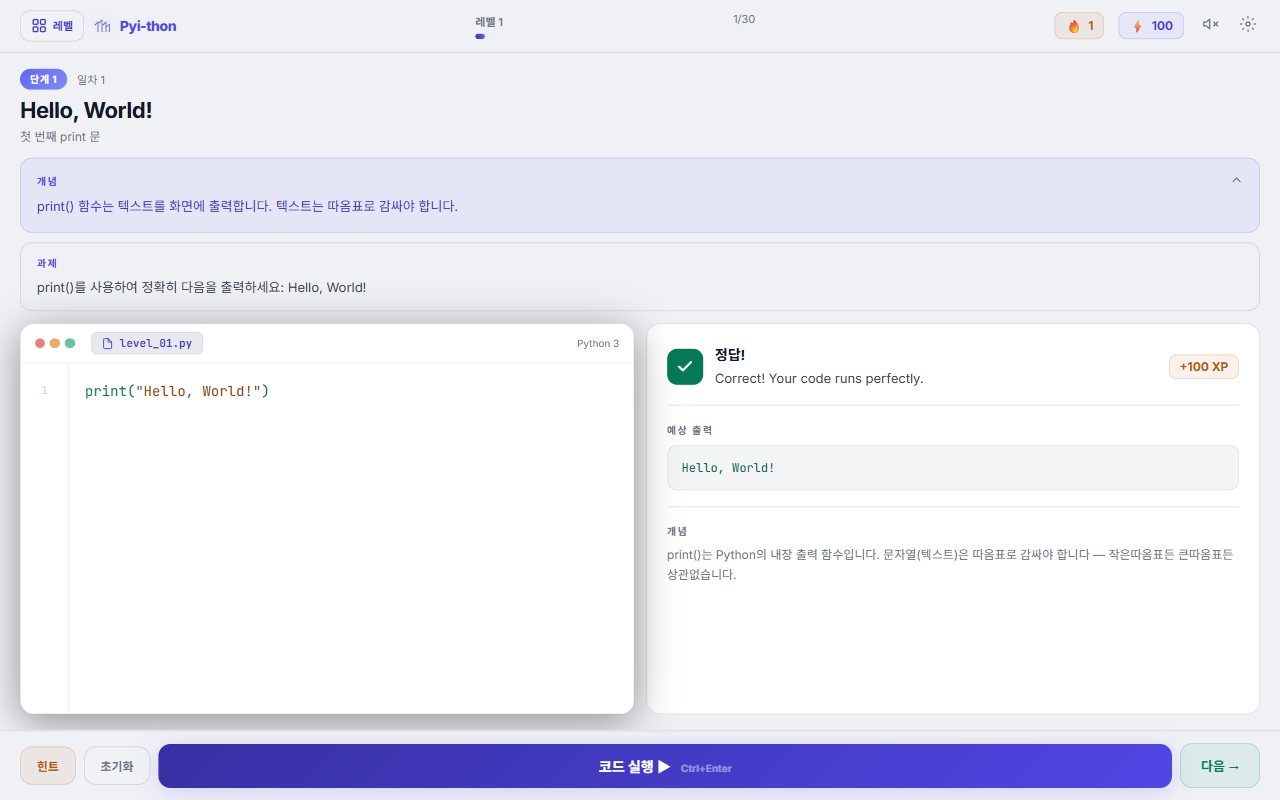
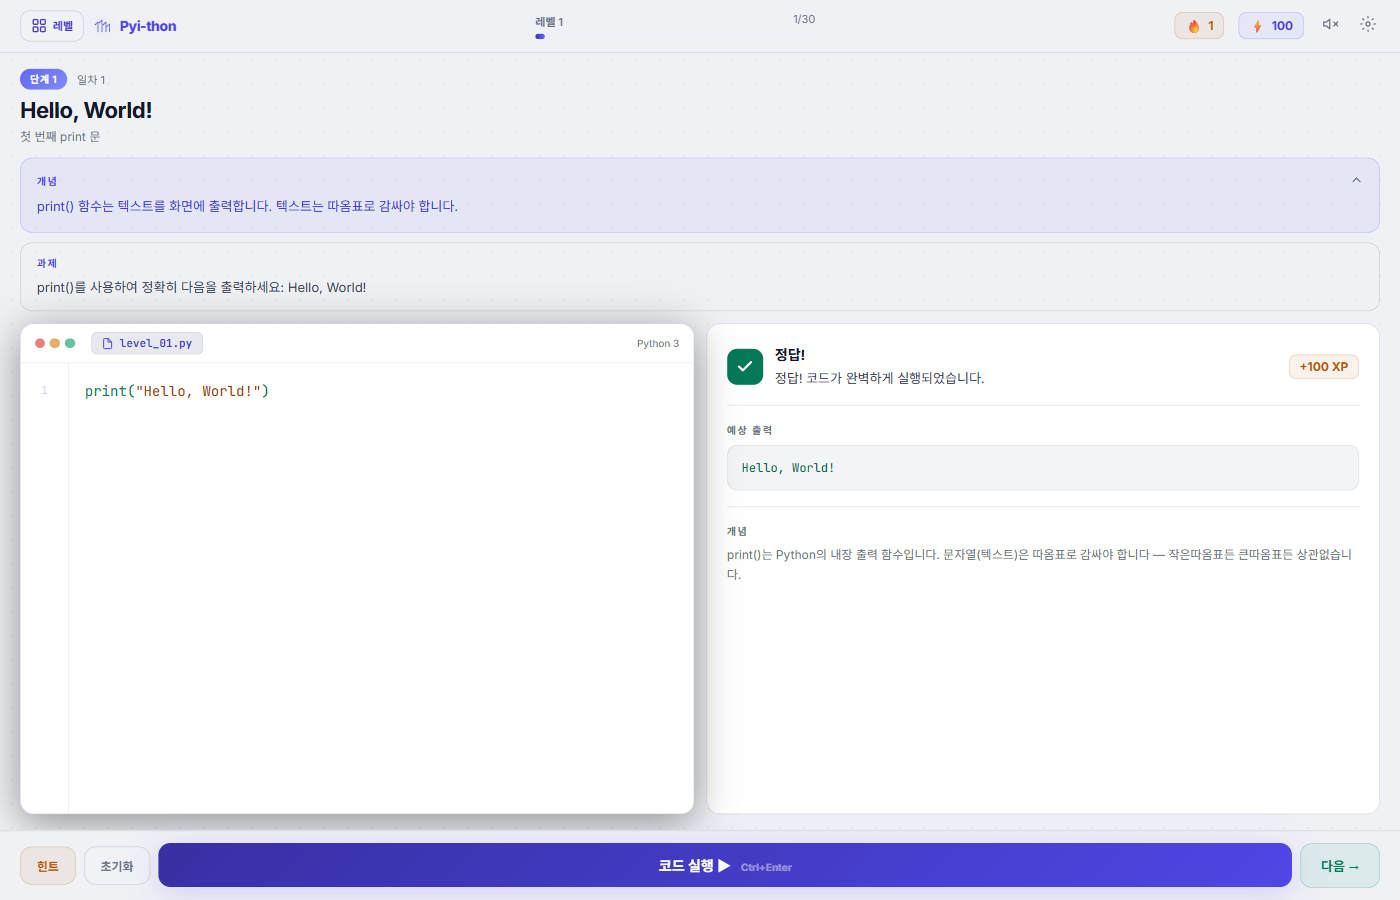
fix: update intro text, auto-fallback to offline mode, rename to pyi-thon
- Replace misleading "No AI" tagline with "AI-powered feedback. Real coding."
- Change "Local Edition" subtitle to "Open Source" (EN + KO)
- Auto-fallback to offline evaluator when no API key (instead of blocking)
- Show toast notification when falling back to offline mode
- Rename repo references from pyithon to pyi-thon in README and package.json
- Remove duplicate hero image from README top
- Update project structure line count to ~1600
- Comment out VITE_ANTHROPIC_API_KEY in .env.example for consistency
- Update Korean screenshot with correct Korean feedback text
- Change attribution from Eddie Yi to Edward Yi

diff --git a/src/App.jsx b/src/App.jsx
@@ -77,8 +77,8 @@ const STRINGS = {
     providerDesc: "Select AI evaluator",
     startLearning: "Start Learning",
     configureApiKey: "Configure API Key",
-    tagline: "Master Python from scratch.\nNo AI. No autocomplete. Just you.",
-    subtitle: "30 levels \u00b7 3 phases \u00b7 Local Edition",
+    tagline: "Master Python from scratch.\nAI-powered feedback. Real coding.",
+    subtitle: "30 levels \u00b7 3 phases \u00b7 Open Source",
     settings: "Settings",
     darkMode: "Dark",
     lightMode: "Light",
@@ -103,6 +103,7 @@ const STRINGS = {
     offlinePyError: "Python error: ",
     offlineWrongOutput: 'Your code outputs "{actual}" but the expected output is "{expected}".',
     offlineRunError: "Couldn't run your code. Try again.",
+    offlineFallback: "Running offline — add an API key in Settings for AI feedback",
   },
   ko: {
     levels: "\ub808\ubca8",
@@ -132,8 +133,8 @@ const STRINGS = {
     providerDesc: "AI \ud3c9\uac00\uae30 \uc120\ud0dd",
     startLearning: "\ud559\uc2b5 \uc2dc\uc791",
     configureApiKey: "API \ud0a4 \uc124\uc815",
-    tagline: "\ud30c\uc774\uc36c\uc744 \ucc98\uc74c\ubd80\ud130 \ub9c8\uc2a4\ud130\ud558\uc138\uc694.\nAI \uc5c6\uc774. \uc790\ub3d9\uc644\uc131 \uc5c6\uc774. \uc624\uc9c1 \ub2f9\uc2e0\uc758 \ud798\uc73c\ub85c.",
-    subtitle: "30 \ub808\ubca8 \u00b7 3 \ub2e8\uacc4 \u00b7 \ub85c\uceec \uc5d0\ub514\uc158",
+    tagline: "\ud30c\uc774\uc36c\uc744 \ucc98\uc74c\ubd80\ud130 \ub9c8\uc2a4\ud130\ud558\uc138\uc694.\nAI \ud53c\ub4dc\ubc31. \uc9c4\uc9dc \ucf54\ub529.",
+    subtitle: "30 \ub808\ubca8 \u00b7 3 \ub2e8\uacc4 \u00b7 \uc624\ud508 \uc18c\uc2a4",
     settings: "\uc124\uc815",
     darkMode: "\ub2e4\ud06c",
     lightMode: "\ub77c\uc774\ud2b8",
@@ -158,6 +159,7 @@ const STRINGS = {
     offlinePyError: "Python \uc624\ub958: ",
     offlineWrongOutput: '\ucd9c\ub825\uc774 "{actual}"\uc774\uc9c0\ub9cc \uc608\uc0c1 \ucd9c\ub825\uc740 "{expected}"\uc785\ub2c8\ub2e4.',
     offlineRunError: "\ucf54\ub4dc\ub97c \uc2e4\ud589\ud560 \uc218 \uc5c6\uc2b5\ub2c8\ub2e4. \ub2e4\uc2dc \uc2dc\ub3c4\ud558\uc138\uc694.",
+    offlineFallback: "\uc624\ud504\ub77c\uc778\uc73c\ub85c \uc2e4\ud589 \uc911 — \uc124\uc815\uc5d0\uc11c API \ud0a4\ub97c \ucd94\uac00\ud558\uba74 AI \ud53c\ub4dc\ubc31\uc744 \ubc1b\uc744 \uc218 \uc788\uc2b5\ub2c8\ub2e4",
   }
 };
 
@@ -676,6 +678,7 @@ export default function PyithonApp() {
   const [showXPFloat, setShowXPFloat] = useState(false);
   const [lang, setLang] = useState(() => localStorage.getItem("pyithon-lang") || "en");
   const [provider, setProvider] = useState(() => localStorage.getItem("pyithon-provider") || "claude");
+  const [offlineFallbackToast, setOfflineFallbackToast] = useState(false);
 
   const t = (key) => STRINGS[lang]?.[key] || STRINGS.en[key] || key;
 
@@ -775,7 +778,11 @@ export default function PyithonApp() {
 
   const handleSubmit = useCallback(async () => {
     if (isEvaluating) return;
-    if (!offlineMode && !apiKey) { setShowApiSetup(true); return; }
+    const useOffline = offlineMode || !apiKey;
+    if (!offlineMode && !apiKey) {
+      setOfflineFallbackToast(true);
+      setTimeout(() => setOfflineFallbackToast(false), 4000);
+    }
     const userCode = code.trim();
     if (!userCode || userCode === level.starterCode.trim()) {
       setFeedback({ correct: false, message: t("writeCodeFirst"), expected: level.expectedOutput });
@@ -786,7 +793,7 @@ export default function PyithonApp() {
     const expected = level.expectedOutput.trim();
     setIsEvaluating(true); setFeedback(null); setTab("output");
     try {
-      const result = offlineMode ? await evaluateOffline(userCode, level, lang) : await evaluateWithAI(userCode, level, apiKey, lang, provider);
+      const result = useOffline ? await evaluateOffline(userCode, level, lang) : await evaluateWithAI(userCode, level, apiKey, lang, provider);
       if (result.correct) {
         setFeedback({ correct: true, message: result.feedback || "Correct!", expected, aiExplanation: result.explanation });
         const isNew = !completedLevels.has(level.id);
@@ -1523,6 +1530,17 @@ export default function PyithonApp() {
           >{t("next")} &rarr;</button>
         )}
       </div>
+      {offlineFallbackToast && (
+        <div style={{
+          position: "fixed", bottom: 24, left: "50%", transform: "translateX(-50%)",
+          background: C.bgCard, border: `1px solid ${C.border}`, borderRadius: 12,
+          padding: "10px 20px", fontSize: 13, color: C.textDim, fontWeight: 500,
+          boxShadow: `0 8px 32px rgba(0,0,0,0.3)`, zIndex: 9999,
+          animation: "fadeSlideUp 0.3s ease-out", whiteSpace: "nowrap",
+        }}>
+          {t("offlineFallback")}
+        </div>
+      )}
       <style>{getGlobalStyles(C)}</style>
     </div>
   );

diff --git a/README.md b/README.md
@@ -1,7 +1,3 @@
-<p align="center">
-  <img src="screenshots/correct-dark.png" alt="Pyi-thon — Learn Python in Your Browser" width="800" />
-</p>
-
 <h1 align="center">Pyi-thon</h1>
 
 <p align="center">
@@ -88,8 +84,8 @@ Most Python tutorials make you read. Pyi-thon makes you **write**.
 ## Quick Start
 
 ```bash
-git clone https://github.com/aiedwardyi/pyithon.git
-cd pyithon
+git clone https://github.com/aiedwardyi/pyi-thon.git
+cd pyi-thon
 npm install
 npm run dev
 ```
@@ -136,14 +132,14 @@ You write Python  →  Submit  →  AI or Pyodide evaluates  →  Feedback + XP
 ## Project Structure
 
 ```
-pyithon/
+pyi-thon/
 ├── index.html          # Entry point + font imports
 ├── package.json        # Dependencies (React + Vite only)
 ├── vite.config.js      # Dev server + Claude API proxy
 ├── .env.example        # API key template (all providers)
 └── src/
     ├── main.jsx        # React mount point
-    └── App.jsx         # The entire app — single file, ~1400 lines
+    └── App.jsx         # The entire app — single file, ~1600 lines
 ```
 
 The whole application lives in one file. Colors, levels, translations, evaluator, syntax highlighter, and all UI components. Simple to understand, easy to fork.
@@ -200,5 +196,5 @@ See [CONTRIBUTING.md](CONTRIBUTING.md) for guidelines.
 </p>
 
 <p align="center">
-  Made by <a href="https://github.com/aiedwardyi">Eddie Yi</a>
+  Made by <a href="https://github.com/aiedwardyi">Edward Yi</a>
 </p>
